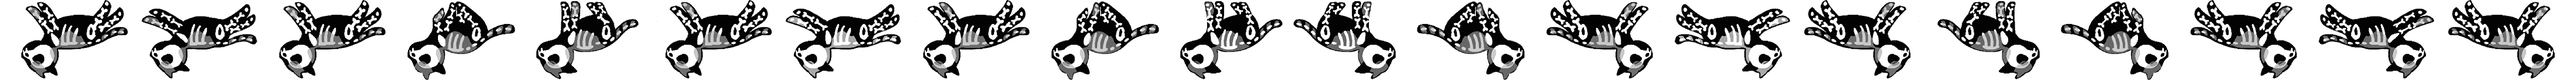
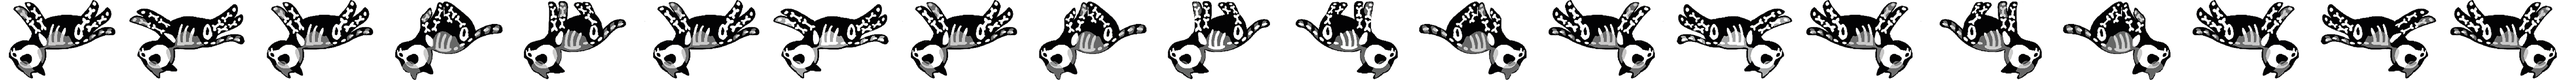
WIP Game Area

Changed region(s): [[0.0, 0.0255, 0.9996, 0.9936]]

diff --git a/src/scenes/gameScene.ts b/src/scenes/gameScene.ts
@@ -5,6 +5,7 @@ import {Player} from '../classes/player';
 import constants from '../constants';
 //levels
 import level1 from '../assets/levels/level1.json';
+//images
 import assetPlatform from '../assets/images/platform.png';
 import assetCatAnimA from '../assets/images/cat_anim_a.png';
 import assetCatAnimD from '../assets/images/cat_anim_d.png';
@@ -16,7 +17,8 @@ import assetBoxLine from '../assets/images/boxline.png';
 import assetBoxDoorLine from '../assets/images/doorline.png';
 import assetScientist from '../assets/images/scientistline.png';
 import assetLine from '../assets/images/line.png';
-import assetBoxBackground from '../assets/images/box_background.png';
+import assetBoxBackground1A from '../assets/images/framea1.png';
+import assetBoxBackground1D from '../assets/images/framed1.png';
 //sounds
 import { SoundManager } from '../classes/soundManager';
 import music_loop_synth  from '../assets/sounds/music_loop_synth.mp3';
@@ -25,6 +27,9 @@ import assetFond from '../assets/images/fond.png';
 import {addDebugText, clearDebugText} from './hud';
 
 let ground;
+let ceil;
+let floor;
+let wallL, wallR;
 let cursors;
 let platform;
 let box1;
@@ -56,7 +61,8 @@ export class GameScene extends Phaser.Scene {
   private gameStarted: boolean = false;
   private soundManager: SoundManager;
   private isMusicPlaying: boolean = false;
-  private boxBackground: Phaser.GameObjects.Image;
+  private boxBackground1A: Phaser.GameObjects.Image;
+  private boxBackground1D: Phaser.GameObjects.Image;
   private gameAreaMask: Phaser.Display.Masks.GeometryMask;
 
   constructor () {
@@ -90,7 +96,8 @@ export class GameScene extends Phaser.Scene {
     this.load.image('doorline', assetBoxDoorLine);
     this.load.image('scientistline', assetScientist);
     this.load.image('line', assetLine);
-    this.load.image('boxBackground', assetBoxBackground);
+    this.load.image('boxBackground1A', assetBoxBackground1A);
+    this.load.image('boxBackground1D', assetBoxBackground1D);
     //sounds
     loopSynth = this.soundManager.loadSound(music_loop_synth, synthVolume);
     loopMetal = this.soundManager.loadSound(music_loop_metal, metalVolume);
@@ -126,25 +133,45 @@ export class GameScene extends Phaser.Scene {
         .setDisplaySize(178 * 0.4, 249 * 0.4);
 
     // GAME AREA
-    this.boxBackground = this.add.image(0, 0, 'boxBackground');
-    this.gameAreaMask = this.boxBackground.createGeometryMask();
+    this.boxBackground1A = this.add.image(0, 0, 'boxBackground1A').setOrigin(0.5, 1);
+    this.boxBackground1A.setDepth(-2);
+    this.boxBackground1A.setDisplaySize(957, 280);
+    this.boxBackground1D = this.add.image(0, 0, 'boxBackground1D').setOrigin(0.5, 0);
+    this.boxBackground1D.setDepth(-2);
+    this.boxBackground1D.setDisplaySize(957, 280);
+    //this.boxBackground1D.setRotation(Math.PI);
 
-    const shape1 = (this.make.graphics as any)().fillStyle(0xffffff).fillRect(-400, -250, 800, 500);
-    //this.add.existing(shape1);
+    const shape1 = (this.make.graphics as any)().fillStyle(0xffffff).fillRect(
+      -constants.GAMEAREA_WIDTH/2, -constants.GAMEAREA_HEIGHT/2, constants.GAMEAREA_WIDTH, constants.GAMEAREA_HEIGHT);
     this.gameAreaMask = shape1.createGeometryMask();
 
     this.level = this.levelLoader.parse( this.cache.json.get('levelData'), this.gameAreaMask);
-    /*this.level.blockGroup.getChildren().forEach((c:any) => {
-      c.setMask(this.gameAreaMask);
-    });*/
 
-    // this.cameras.main.setMask(mask1);
-
-    ground = this.physics.add.image(0, 0, 'ground')
-                 //.setOrigin(0, 0.5)
-                 .setSize(800, 20)
-                 .setDisplaySize(800, 12);
+    ground = this.physics.add.image(0, 0, 'ground').setDisplaySize(constants.GAME_WIDTH, 12);
     ground.setImmovable(true);
+    ground.setDepth(-1);
+
+    ceil = this.physics.add.image(0, -constants.GAMEAREA_HEIGHT/2 - 16, 'ground').setDisplaySize(constants.GAME_WIDTH, 2);
+    ceil.setImmovable(true);
+    ceil.setDepth(-1);
+    ceil.setVisible(false);
+
+    floor = this.physics.add.image(0, constants.GAMEAREA_HEIGHT/2 + 16, 'ground').setDisplaySize(constants.GAME_WIDTH, 2);
+    floor.setImmovable(true);
+    floor.setDepth(-1);
+    floor.setVisible(false);
+
+    wallL = this.physics.add.image(constants.GAMEAREA_WIDTH/2, 0, 'ground').setDisplaySize(20, constants.GAME_HEIGHT);
+    wallL.setOrigin(1, 0.5);
+    wallL.setImmovable(true);
+    wallL.setDepth(-1);
+    wallL.setVisible(false);
+
+    wallR = this.physics.add.image(constants.GAMEAREA_WIDTH/2, 0, 'ground').setDisplaySize(20, constants.GAME_HEIGHT);
+    wallR.setOrigin(0, 0.5);
+    wallR.setImmovable(true);
+    wallR.setDepth(-1);
+    wallR.setVisible(false);
 
     //Generate background
     const fondImages = [];
@@ -152,16 +179,14 @@ export class GameScene extends Phaser.Scene {
       fondImages.push(this.add.image(x, 0, 'fond'));
     }
 
-    this.fondGroup = this.add.group(fondImages).setDepth(-1);
-
-    //this.fondImage = this.add.image(0, 0, 'fond').setDepth(-1);
+    this.fondGroup = this.add.group(fondImages).setDepth(-10);
 
     this.playerAlive = new Player(this, true);
     this.playerDead = new Player(this, false);
     this.controlledPlayer = this.playerAlive;
 
     //Restart
-    var keyObj = this.input.keyboard.addKey('backspace'); 
+    var keyObj = this.input.keyboard.addKey('backspace');
     keyObj.on('up', function() { this.scene.restart();
     }, this);
 
@@ -241,7 +266,7 @@ export class GameScene extends Phaser.Scene {
       frameRate: 10,
     });
 
-    this.physics.add.collider([this.playerAlive.gameObject, this.playerDead.gameObject], ground);
+    this.physics.add.collider([this.playerAlive.gameObject, this.playerDead.gameObject], [ground, floor, ceil, wallL, wallR]);
     this.physics.add.collider(this.playerAlive.gameObject, this.playerDead.gameObject);
 
     this.physics.add.collider(
@@ -272,12 +297,18 @@ export class GameScene extends Phaser.Scene {
   updateFixedImages(boxOffset){
     var lineWidth = this.lineImage.displayWidth;
     this.scientistImage.x = boxOffset - (lineWidth/2);
-    this.boxBackground.x = boxOffset;
+    this.boxBackground1A.x = boxOffset;
+    this.boxBackground1D.x = boxOffset;
     this.gameAreaMask.geometryMask.x = boxOffset;
     this.lineImage.x = boxOffset;
     this.doorImage.x = boxOffset + (lineWidth/2);
     var completePercent = ( boxOffset / Number(this.level.levelWidth));
     this.boxImage.x = this.scientistImage.x + lineWidth*completePercent;
+    ground.x = boxOffset;
+    floor.x = boxOffset;
+    ceil.x = boxOffset;
+    wallL.x = boxOffset - constants.GAMEAREA_WIDTH/2;
+    wallR.x = boxOffset + constants.GAMEAREA_WIDTH/2;
   }
 
   update(time, delta) {
@@ -293,7 +324,6 @@ export class GameScene extends Phaser.Scene {
     const boxOffset = (this.playerAlive.gameObject.x + this.playerDead.gameObject.x)*.5;
     this.updateFixedImages(boxOffset);
     this.cameras.main.setScroll( boxOffset - constants.GAME_WIDTH/2, -300);
-    ground.x = boxOffset;
     // ground.setPosition(0,Math.sin(delta/1000)*100+300);
 
     // UPDATE GROUND IF NEEDED

diff --git a/src/classes/levelLoader.ts b/src/classes/levelLoader.ts
@@ -54,35 +54,36 @@ export class LevelLoader {
 
       switch (element.type) {
       case "blockNtrAlive":
-        this.level.blockGroup.create(ex, ey, element.type)
-            .setOrigin(0, 0)
-            .setDisplaySize(element.w * Constants.BLOCKW,
-                            element.h * Constants.BLOCKH)
-            .setMask(mask);
+        const block = this.level.blockGroup.create(ex, ey, element.type)
+          .setOrigin(0, 0)
+          .setDisplaySize(element.w * Constants.BLOCKW, element.h * Constants.BLOCKH)
+          .setMask(mask);
+
+        block.body.debugShowBody = false;
         break;
       case "blockNtrDead":
         this.level.blockGroup.create(ex, ey, element.type)
-            .setOrigin(0, 0)
-            .setDisplaySize(element.w * Constants.BLOCKW,
-                            element.h * Constants.BLOCKH);
+          .setOrigin(0, 0)
+          .setDisplaySize(element.w * Constants.BLOCKW, element.h * Constants.BLOCKH)
+          .setMask(mask);
         break;
       case "switchAlive":
         this.level.switchAliveGroup
-            .create(ex + (Constants.BLOCKW - Constants.SWITCH_SIZE) * 0.5,
-                    ey + (Constants.BLOCKH - Constants.SWITCH_SIZE) * 0.5,
-                    element.type)
-            .setOrigin(0, 0)
-            .setDisplaySize(element.w * Constants.SWITCH_SIZE,
-                            element.h * Constants.SWITCH_SIZE);
+          .create(ex + (Constants.BLOCKW - Constants.SWITCH_SIZE) * 0.5,
+                  ey + (Constants.BLOCKH - Constants.SWITCH_SIZE) * 0.5,
+                  element.type)
+          .setOrigin(0, 0)
+          .setDisplaySize(element.w * Constants.SWITCH_SIZE, element.h * Constants.SWITCH_SIZE)
+          .setMask(mask);
         break;
       case "switchDead":
         this.level.switchDeadGroup
-            .create(ex + (Constants.BLOCKW - Constants.SWITCH_SIZE) * 0.5,
-                    ey + (Constants.BLOCKH - Constants.SWITCH_SIZE) * 0.5,
-                    element.type)
-            .setOrigin(0, 0)
-            .setDisplaySize(element.w * Constants.SWITCH_SIZE,
-                            element.h * Constants.SWITCH_SIZE);
+          .create(ex + (Constants.BLOCKW - Constants.SWITCH_SIZE) * 0.5,
+                  ey + (Constants.BLOCKH - Constants.SWITCH_SIZE) * 0.5,
+                  element.type)
+          .setOrigin(0, 0)
+          .setDisplaySize(element.w * Constants.SWITCH_SIZE, element.h * Constants.SWITCH_SIZE)
+          .setMask(mask);
         break;
       default:
         console.log("Type doesn't exists");

diff --git a/src/classes/player.ts b/src/classes/player.ts
@@ -18,9 +18,10 @@ export class Player {
           gameScene.physics.add.sprite(x, y, isAlive ? 'catalive' : 'catdead')
             .setGravity(0, (isAlive ? 1 : -1) * constants.PLAYER_GRAVITY)
             .setMass(100)
-            .setDisplaySize(250 * 0.2, 157 * 0.2)
-            .setSize(250, 157)
+            .setBodySize(200, 157, false)
+            .setDisplaySize(250 * 0.25, 157 * 0.25)
         );
+        this.gameObject.body.x = x + 200;
         this.gameObject.body.debugBodyColor = 0x00ff0000;
         this.gameObject.setCollideWorldBounds(true);
         if (isAlive) {

diff --git a/src/constants.ts b/src/constants.ts
@@ -3,6 +3,9 @@ const Constants = {
     GAME_WIDTH: 1366,
     GAME_HEIGHT: 768,
 
+    GAMEAREA_WIDTH: 832,
+    GAMEAREA_HEIGHT: 500,
+
     TILE_SIZE,
     ROOM_W: 29*TILE_SIZE,
     ROOM_H: 19*TILE_SIZE,
@@ -16,7 +19,6 @@ const Constants = {
     Z_BORDERS: 5,
     Z_BACKGROUND: 0,
 
-    PLAYER_VELOCITY: 150,
     MOB_VELOCITY: 100,
     BLOCKW : 60,
     BLOCKH : 50,
@@ -24,7 +26,7 @@ const Constants = {
     GROUND_SPEED : 0.003,
     JUMP_VELOCITY : 250,
     PLAYER_GRAVITY : 500,
-    PLAYER_XVELOCITY : 70,
+    PLAYER_XVELOCITY : 100,
 }
 
 export default Constants;

diff --git a/src/classes/game.ts b/src/classes/game.ts
@@ -37,7 +37,7 @@ export class Game {
             default: 'arcade',
             arcade: {
                 gravity: { y: 0 },
-                debug: true,
+                debug: false,
             }
         },
         scene: [ GameScene, HUDScene, MainMenuScene ]
